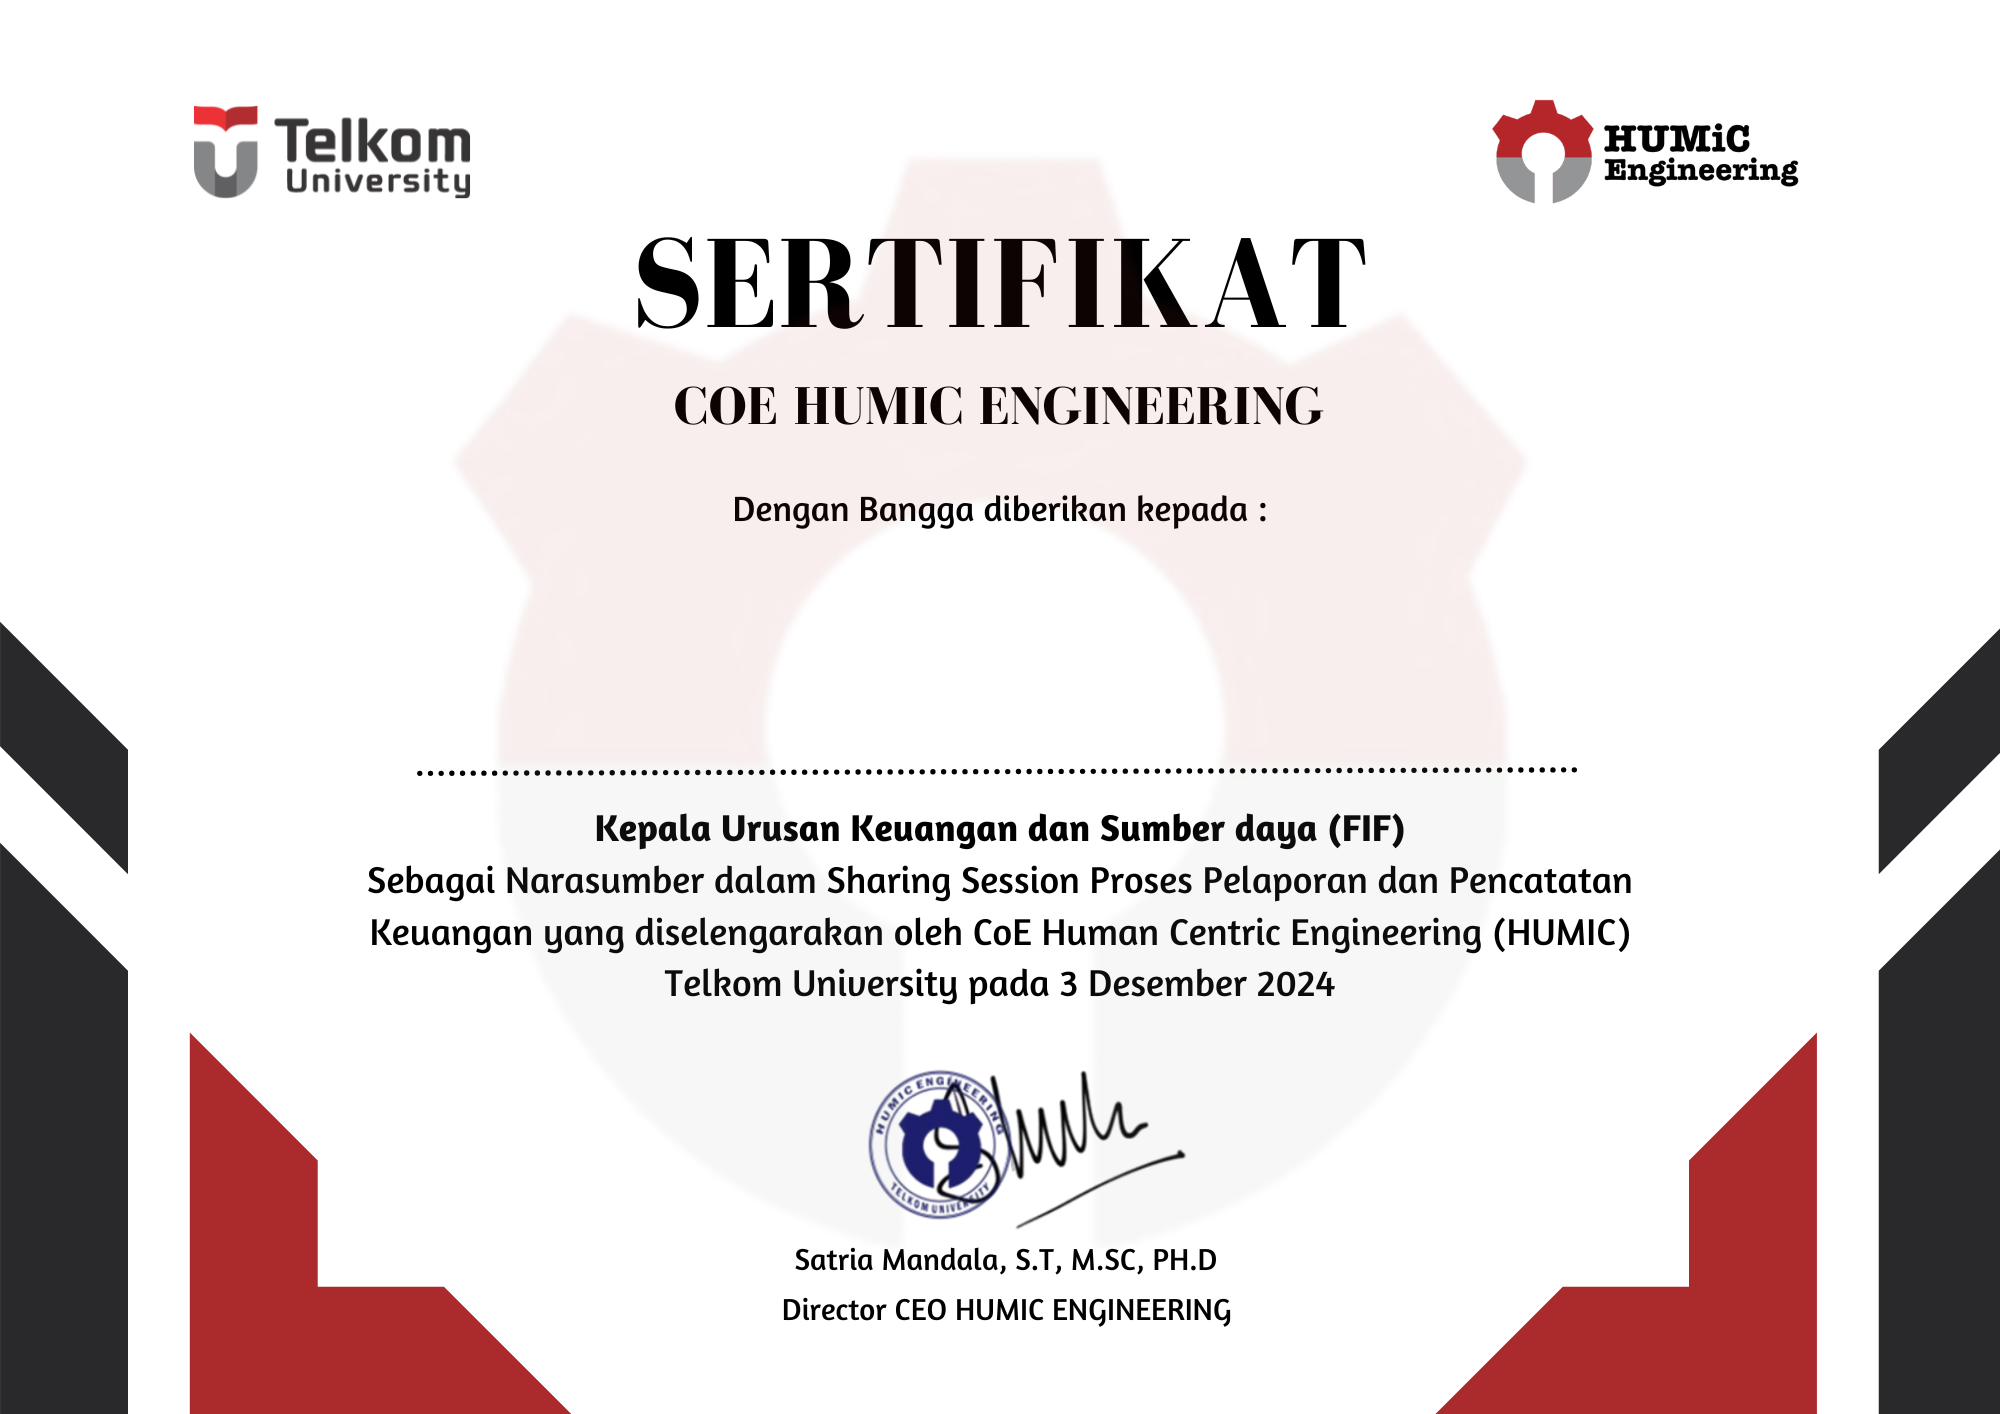
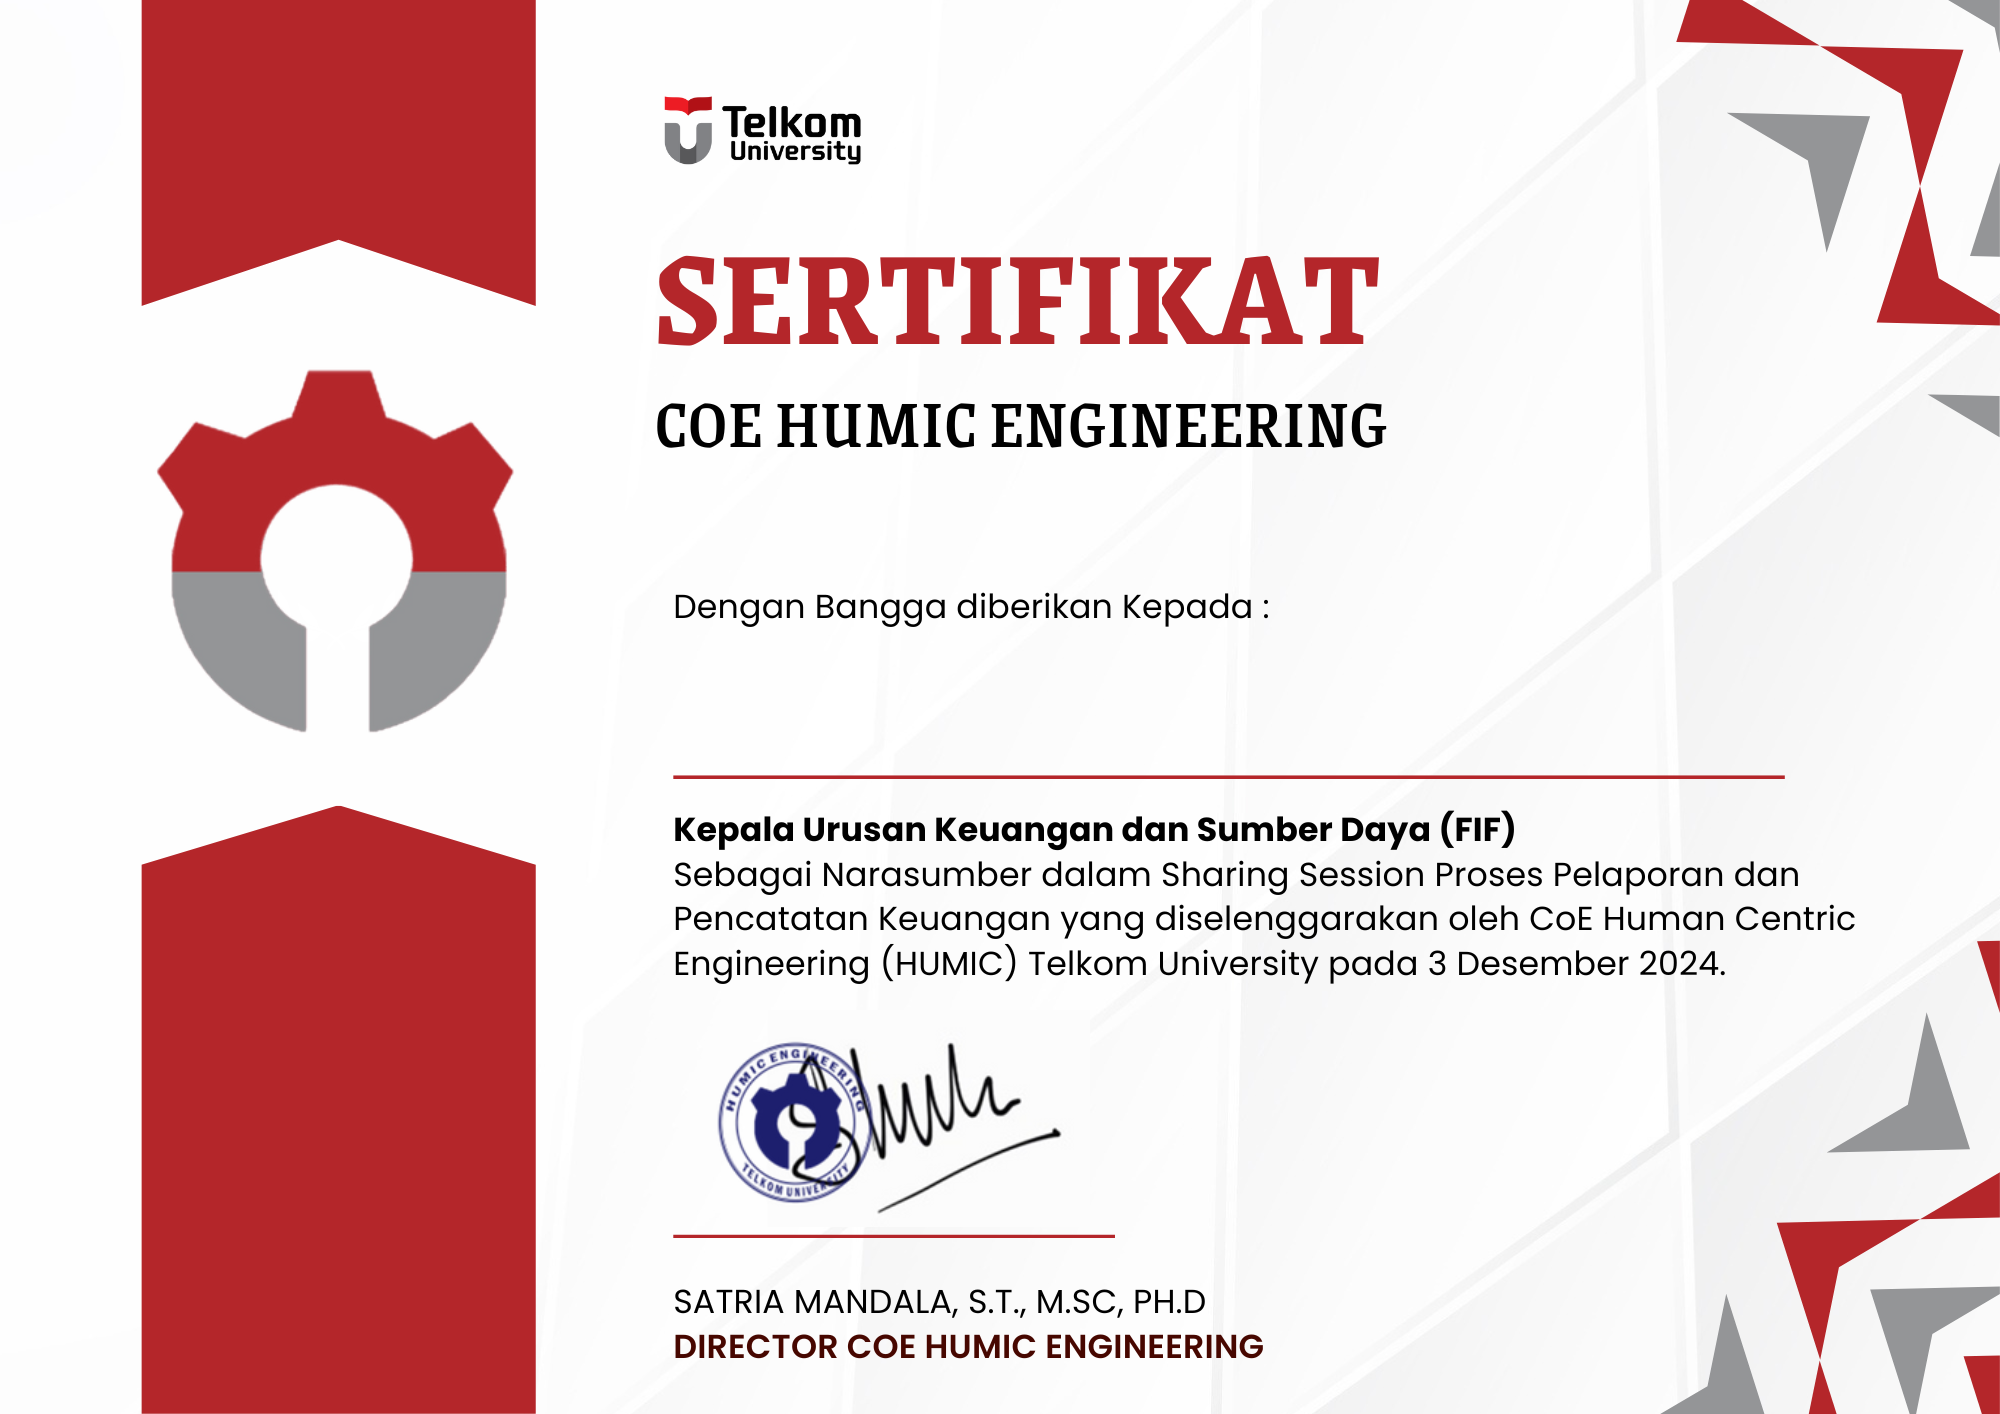
add sertif baru & style

diff --git a/lib/app/modules/certificate_preview/controllers/certificate_preview_controller.dart b/lib/app/modules/certificate_preview/controllers/certificate_preview_controller.dart
@@ -1,8 +1,8 @@
 import 'dart:io';
 import 'package:excel/excel.dart';
+import 'package:flutter/foundation.dart';
 import 'package:flutter/material.dart';
 import 'package:get/get.dart';
-import 'package:humic_mobile/app/data/models/certificate_model.dart';
 import 'package:humic_mobile/app/routes/app_pages.dart';
 import 'package:path_provider/path_provider.dart';
 import 'dart:ui' as ui;
@@ -64,11 +64,27 @@ class CertificatePreviewController extends GetxController {
   Future<File?> generateCertificate(String name) async {
     try {
       // Muat gambar template
-      final ByteData data = await rootBundle.load(templatePath.value);
-      final Uint8List bytes = data.buffer.asUint8List();
-      final ui.Codec codec = await ui.instantiateImageCodec(bytes);
-      final ui.FrameInfo fi = await codec.getNextFrame();
-      final ui.Image templateImage = fi.image;
+      ui.Image templateImage;
+
+      if (templatePath.value.startsWith('http')) {
+        // Jika path adalah URL, gunakan NetworkImage
+        final HttpClient httpClient = HttpClient();
+        final Uri uri = Uri.parse(templatePath.value);
+        final HttpClientRequest request = await httpClient.getUrl(uri);
+        final HttpClientResponse response = await request.close();
+        final Uint8List bytes =
+            await consolidateHttpClientResponseBytes(response);
+        final ui.Codec codec = await ui.instantiateImageCodec(bytes);
+        final ui.FrameInfo fi = await codec.getNextFrame();
+        templateImage = fi.image;
+      } else {
+        // Jika path adalah aset lokal, gunakan rootBundle
+        final ByteData data = await rootBundle.load(templatePath.value);
+        final Uint8List bytes = data.buffer.asUint8List();
+        final ui.Codec codec = await ui.instantiateImageCodec(bytes);
+        final ui.FrameInfo fi = await codec.getNextFrame();
+        templateImage = fi.image;
+      }
 
       // Buat canvas untuk menggambar
       final recorder = ui.PictureRecorder();
@@ -79,14 +95,14 @@ class CertificatePreviewController extends GetxController {
 
       // Tambahkan nama dengan font Great Vibes
       final textStyle = ui.TextStyle(
-        color: Colors.black,
+        color: templateIndex.value == 1 ? Colors.red : Colors.black,
         fontSize: 100,
         fontWeight: FontWeight.normal,
         fontFamily: 'Great Vibes',
       );
 
       final paragraphStyle = ui.ParagraphStyle(
-        textAlign: TextAlign.center,
+        textAlign: templateIndex.value == 1 ? TextAlign.left : TextAlign.center,
         fontSize: 100,
         fontFamily: 'Great Vibes',
       );
@@ -106,7 +122,7 @@ class CertificatePreviewController extends GetxController {
       switch (templateIndex.value) {
         case 1:
           // Posisi untuk template 1
-          x = (templateImage.width - paragraph.width) / 2;
+          x = templateImage.width * 0.33;
           y = templateImage.height * 0.45;
           break;
         case 2:
@@ -114,6 +130,11 @@ class CertificatePreviewController extends GetxController {
           x = (templateImage.width - paragraph.width) / 2;
           y = templateImage.height * 0.43;
           break;
+        case 3:
+          // Posisi untuk template 3
+          x = (templateImage.width - paragraph.width) / 2;
+
+          y = templateImage.height * 0.45;
         default:
           // Posisi default
           x = (templateImage.width - paragraph.width) / 2;

diff --git a/lib/app/modules/result_page/controllers/result_page_controller.dart b/lib/app/modules/result_page/controllers/result_page_controller.dart
@@ -1,5 +1,6 @@
 import 'dart:io';
 import 'package:excel/excel.dart';
+import 'package:flutter/foundation.dart';
 import 'package:flutter/material.dart';
 import 'package:get/get.dart';
 import 'package:humic_mobile/app/data/models/certificate_model.dart';
@@ -61,11 +62,26 @@ class ResultPageController extends GetxController {
   Future<ui.Image> loadTemplateImage() async {
     try {
       print("Loading template from: ${templatePath.value}");
-      final ByteData data = await rootBundle.load(templatePath.value);
-      final Uint8List bytes = data.buffer.asUint8List();
-      final ui.Codec codec = await ui.instantiateImageCodec(bytes);
-      final ui.FrameInfo fi = await codec.getNextFrame();
-      return fi.image;
+
+      if (templatePath.value.startsWith('http')) {
+        // Jika path adalah URL, gunakan NetworkImage
+        final HttpClient httpClient = HttpClient();
+        final Uri uri = Uri.parse(templatePath.value);
+        final HttpClientRequest request = await httpClient.getUrl(uri);
+        final HttpClientResponse response = await request.close();
+        final Uint8List bytes =
+            await consolidateHttpClientResponseBytes(response);
+        final ui.Codec codec = await ui.instantiateImageCodec(bytes);
+        final ui.FrameInfo fi = await codec.getNextFrame();
+        return fi.image;
+      } else {
+        // Jika path adalah aset lokal, gunakan rootBundle
+        final ByteData data = await rootBundle.load(templatePath.value);
+        final Uint8List bytes = data.buffer.asUint8List();
+        final ui.Codec codec = await ui.instantiateImageCodec(bytes);
+        final ui.FrameInfo fi = await codec.getNextFrame();
+        return fi.image;
+      }
     } catch (e) {
       print("Error loading template image: $e");
       Get.snackbar('Error', 'Gagal memuat gambar template: $e');
@@ -93,14 +109,14 @@ class ResultPageController extends GetxController {
 
       // Tambahkan nama dengan font Great Vibes
       final textStyle = ui.TextStyle(
-        color: Colors.black,
+        color: templateIndex.value == 1 ? Colors.red : Colors.black,
         fontSize: 100,
         fontWeight: FontWeight.normal,
         fontFamily: 'Great Vibes',
       );
 
       final paragraphStyle = ui.ParagraphStyle(
-        textAlign: TextAlign.center,
+        textAlign: templateIndex.value == 1 ? TextAlign.left : TextAlign.center,
         fontSize: 100,
         fontFamily: 'Great Vibes',
       );
@@ -120,16 +136,18 @@ class ResultPageController extends GetxController {
       switch (templateIndex.value) {
         case 1:
           // Posisi untuk template 1
-          x = (templateImage.width - paragraph.width) / 2;
-          y = templateImage.height *
-              0.45; // Sesuaikan posisi Y untuk template 1
+          x = templateImage.width * 0.33;
+          y = templateImage.height * 0.45;
           break;
         case 2:
           // Posisi untuk template 2
           x = (templateImage.width - paragraph.width) / 2;
-          y = templateImage.height *
-              0.43; // Sesuaikan posisi Y untuk template 2
+          y = templateImage.height * 0.43;
           break;
+        case 3:
+          // Posisi untuk template 3
+          x = (templateImage.width - paragraph.width) / 2;
+          y = templateImage.height * 0.45;
         default:
           // Posisi default
           x = (templateImage.width - paragraph.width) / 2;

diff --git a/lib/app/data/config/api_config.dart b/lib/app/data/config/api_config.dart
@@ -1,16 +1,8 @@
 import 'package:get/get.dart';
 
 class ApiConfig {
-  // Buat variabel reaktif untuk menyimpan base URL
-  static final RxString _baseUrl = 'http://192.168.18.4:4000'.obs;
-
-  // Getter untuk mendapatkan base URL saat ini
-  static String get baseUrl => _baseUrl.value;
-
-  // Setter untuk mengubah base URL
-  static void setBaseUrl(String url) {
-    _baseUrl.value = url;
-  }
+  // Ubah baseUrl dari localhost ke server yang sudah di-deploy
+  static const String baseUrl = 'http://52.229.206.42:4001';
 
   // Endpoint untuk auth
   static String get loginUrl => '$baseUrl/api-auth/post/login';
@@ -19,4 +11,11 @@ class ApiConfig {
 
   // Endpoint untuk user
   static String get getAllUsersUrl => '$baseUrl/api-user/get/allUser';
+
+  // Endpoint untuk sertifikat
+  static String get getAllTemplatesUrl =>
+      '$baseUrl/api-sertifikat/get/allTemplate';
+  static String get addTemplateUrl => '$baseUrl/api-sertifikat/post/template';
+  static String get deleteTemplateUrl =>
+      '$baseUrl/api-sertifikat/delete/template';
 }

diff --git a/lib/app/modules/template_humic/views/template_humic_view.dart b/lib/app/modules/template_humic/views/template_humic_view.dart
@@ -58,14 +58,14 @@ class TemplateHumicView extends GetView<TemplateHumicController> {
 
               const SizedBox(height: 30),
 
-              // // Template 3
-              // _buildTemplateItem(
-              //   context,
-              //   "Template Humic Sertifikat",
-              //   "assets/images/sertif-template-3.png",
-              //   () => controller.Gunakan(
-              //       templateIndex: 3, excelFilePath: excelFilePath),
-              // ),
+              // Template 3
+              _buildTemplateItem(
+                context,
+                "Template Humic Sertifikat",
+                "assets/images/sertif-kosong-3.png",
+                () => controller.Gunakan(
+                    templateIndex: 3, excelFilePath: excelFilePath),
+              ),
 
               const SizedBox(height: 20),
             ],

diff --git a/lib/app/modules/certificate_preview/views/certificate_preview_view.dart b/lib/app/modules/certificate_preview/views/certificate_preview_view.dart
@@ -1,12 +1,11 @@
 import 'dart:io';
 import 'package:flutter/material.dart';
 import 'package:get/get.dart';
-import 'package:humic_mobile/app/constants/colors.dart';
 import 'package:humic_mobile/app/constants/typography.dart';
+import 'package:humic_mobile/app/modules/certificate_preview/controllers/certificate_preview_controller.dart';
 import 'package:humic_mobile/app/widgets/custom_app_bar.dart';
 import 'package:humic_mobile/app/widgets/custom_drawer.dart';
 import 'package:humic_mobile/app/data/controllers/user_controllers.dart';
-import '../controllers/certificate_preview_controller.dart';
 
 class CertificatePreviewView extends GetView<CertificatePreviewController> {
   const CertificatePreviewView({Key? key}) : super(key: key);

diff --git a/macos/Flutter/GeneratedPluginRegistrant.swift b/macos/Flutter/GeneratedPluginRegistrant.swift
@@ -7,12 +7,14 @@ import Foundation
 
 import file_picker
 import file_saver
+import file_selector_macos
 import path_provider_foundation
 import shared_preferences_foundation
 
 func RegisterGeneratedPlugins(registry: FlutterPluginRegistry) {
   FilePickerPlugin.register(with: registry.registrar(forPlugin: "FilePickerPlugin"))
   FileSaverPlugin.register(with: registry.registrar(forPlugin: "FileSaverPlugin"))
+  FileSelectorPlugin.register(with: registry.registrar(forPlugin: "FileSelectorPlugin"))
   PathProviderPlugin.register(with: registry.registrar(forPlugin: "PathProviderPlugin"))
   SharedPreferencesPlugin.register(with: registry.registrar(forPlugin: "SharedPreferencesPlugin"))
 }

diff --git a/lib/app/modules/template_humic/controllers/template_humic_controller.dart b/lib/app/modules/template_humic/controllers/template_humic_controller.dart
@@ -34,8 +34,11 @@ class TemplateHumicController extends GetxController {
       case 2:
         emptyTemplatePath = 'assets/images/sertif-kosong-2.png';
         break;
+      case 3:
+        emptyTemplatePath = 'assets/images/sertif-kosong-3.png';
+        break;
       default:
-        emptyTemplatePath = 'assets/images/sertif-kosong-1.png';
+        emptyTemplatePath = 'assets/images/sertif-kosong-2.png';
     }
 
     print("Path template kosong: $emptyTemplatePath");

diff --git a/lib/app/data/models/certificate_model.dart b/lib/app/data/models/certificate_model.dart
@@ -8,6 +8,5 @@ class Certificate {
       {required this.name,
       required this.templatePath,
       required this.templateIndex,
-      this.fontFamily = 'Great Vibes'
-  });
+      this.fontFamily = 'Great Vibes'});
 }

diff --git a/linux/flutter/generated_plugin_registrant.cc b/linux/flutter/generated_plugin_registrant.cc
@@ -7,9 +7,13 @@
 #include "generated_plugin_registrant.h"
 
 #include <file_saver/file_saver_plugin.h>
+#include <file_selector_linux/file_selector_plugin.h>
 
 void fl_register_plugins(FlPluginRegistry* registry) {
   g_autoptr(FlPluginRegistrar) file_saver_registrar =
       fl_plugin_registry_get_registrar_for_plugin(registry, "FileSaverPlugin");
   file_saver_plugin_register_with_registrar(file_saver_registrar);
+  g_autoptr(FlPluginRegistrar) file_selector_linux_registrar =
+      fl_plugin_registry_get_registrar_for_plugin(registry, "FileSelectorPlugin");
+  file_selector_plugin_register_with_registrar(file_selector_linux_registrar);
 }

diff --git a/windows/flutter/generated_plugin_registrant.cc b/windows/flutter/generated_plugin_registrant.cc
@@ -7,11 +7,14 @@
 #include "generated_plugin_registrant.h"
 
 #include <file_saver/file_saver_plugin.h>
+#include <file_selector_windows/file_selector_windows.h>
 #include <permission_handler_windows/permission_handler_windows_plugin.h>
 
 void RegisterPlugins(flutter::PluginRegistry* registry) {
   FileSaverPluginRegisterWithRegistrar(
       registry->GetRegistrarForPlugin("FileSaverPlugin"));
+  FileSelectorWindowsRegisterWithRegistrar(
+      registry->GetRegistrarForPlugin("FileSelectorWindows"));
   PermissionHandlerWindowsPluginRegisterWithRegistrar(
       registry->GetRegistrarForPlugin("PermissionHandlerWindowsPlugin"));
 }
